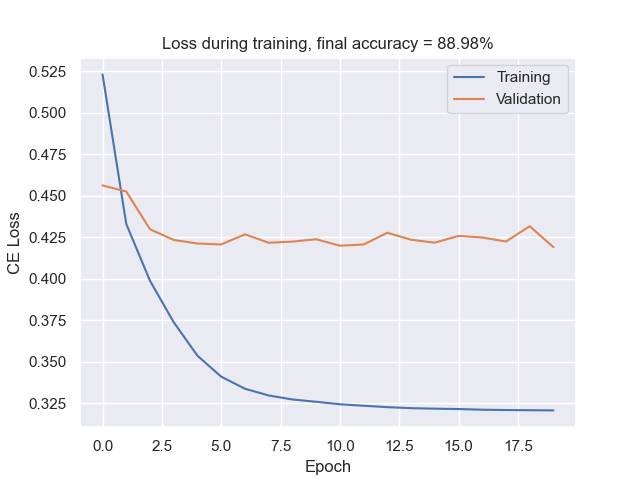
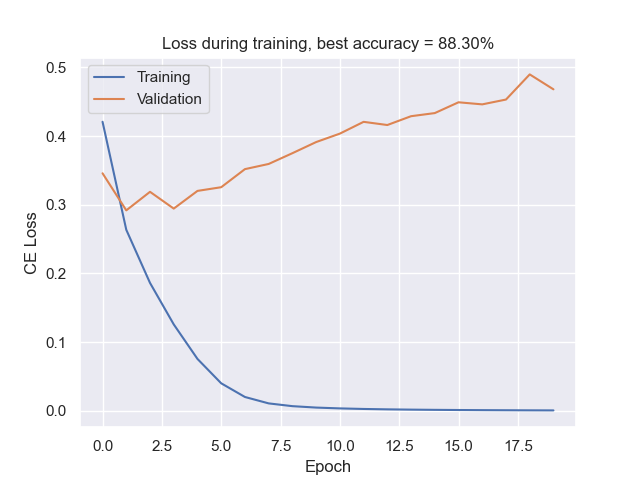
Laatste edits

diff --git a/asg_3/q7.py b/asg_3/q7.py
@@ -43,25 +43,21 @@ class AR(nn.Module):
     ):
         super().__init__()
 
-        self.lstm_width = hidden_size
-        self.embeddings = embedding_size
-        self.num_layers = num_layers
-
         self.embedding = nn.Embedding(
             num_embeddings=n_vocab,
-            embedding_dim=self.embeddings,
+            embedding_dim=embedding_size,
         )
         self.lstm = nn.LSTM(
-            input_size=self.embeddings,
-            hidden_size=self.lstm_width,
-            num_layers=self.num_layers,
-            dropout=0.2,
+            input_size=embedding_size,
+            hidden_size=hidden_size,
+            num_layers=num_layers,
+            batch_first=True,
         )
-        self.fc = nn.Linear(self.lstm_width, n_vocab)
+        self.fc = nn.Linear(hidden_size, n_vocab)
 
     def forward(self, x, states=None):
         embed = self.embedding(x)
-        # hidden & cell states default to zeros if not provided
+        # Hidden & cell states default to zeros if not provided
         output, states = self.lstm(embed, states)
         logits = self.fc(output)
 
@@ -145,6 +141,11 @@ def train(
                     masked_acc,
                     epoch * len(dataloader) + i_batch,
                 )
+                tb_writer.add_scalar(
+                    "Gradient Norm/train",
+                    gradient_norm,
+                    epoch * len(dataloader) + i_batch,
+                )
                 tb_writer.flush()
 
             losses.append(loss.item())
@@ -169,7 +170,7 @@ dataloader = DataLoader(
 model = AR(128, 128, 3, len(dataset.i2w))
 model.to(DEVICE)
 
-# Loss that ignores padding
+# Loss with lower weight for padding
 loss_weights = torch.ones(len(dataset.i2w))
 loss_weights[dataset.w2i[".pad"]] = 0.1
 loss_weights = loss_weights.to(DEVICE)
@@ -183,7 +184,7 @@ tb_writer = SummaryWriter(f"runs/brackets_{timestamp}")
 
 # Training process
 train_res = train(
-    dataloader, model, loss_func, optimizer, epochs=10, tb_writer=tb_writer
+    dataloader, model, loss_func, optimizer, epochs=50, tb_writer=tb_writer
 )
 Path("models/").mkdir(parents=True, exist_ok=True)
 torch.save(model.state_dict(), f"models/brackets_{timestamp}.pt")
@@ -230,9 +231,8 @@ for x_batch, y_batch in dataloader:
         pred = [dataset.i2w[i] for i in pred]
         true_y = [dataset.i2w[i] for i in true_y]
 
-        if pred == true_y:
-            print("".join(pred))
-            print("".join(true_y))
-            print()
+        print("".join(pred))
+        print("".join(true_y))
+        print()
 
     break
